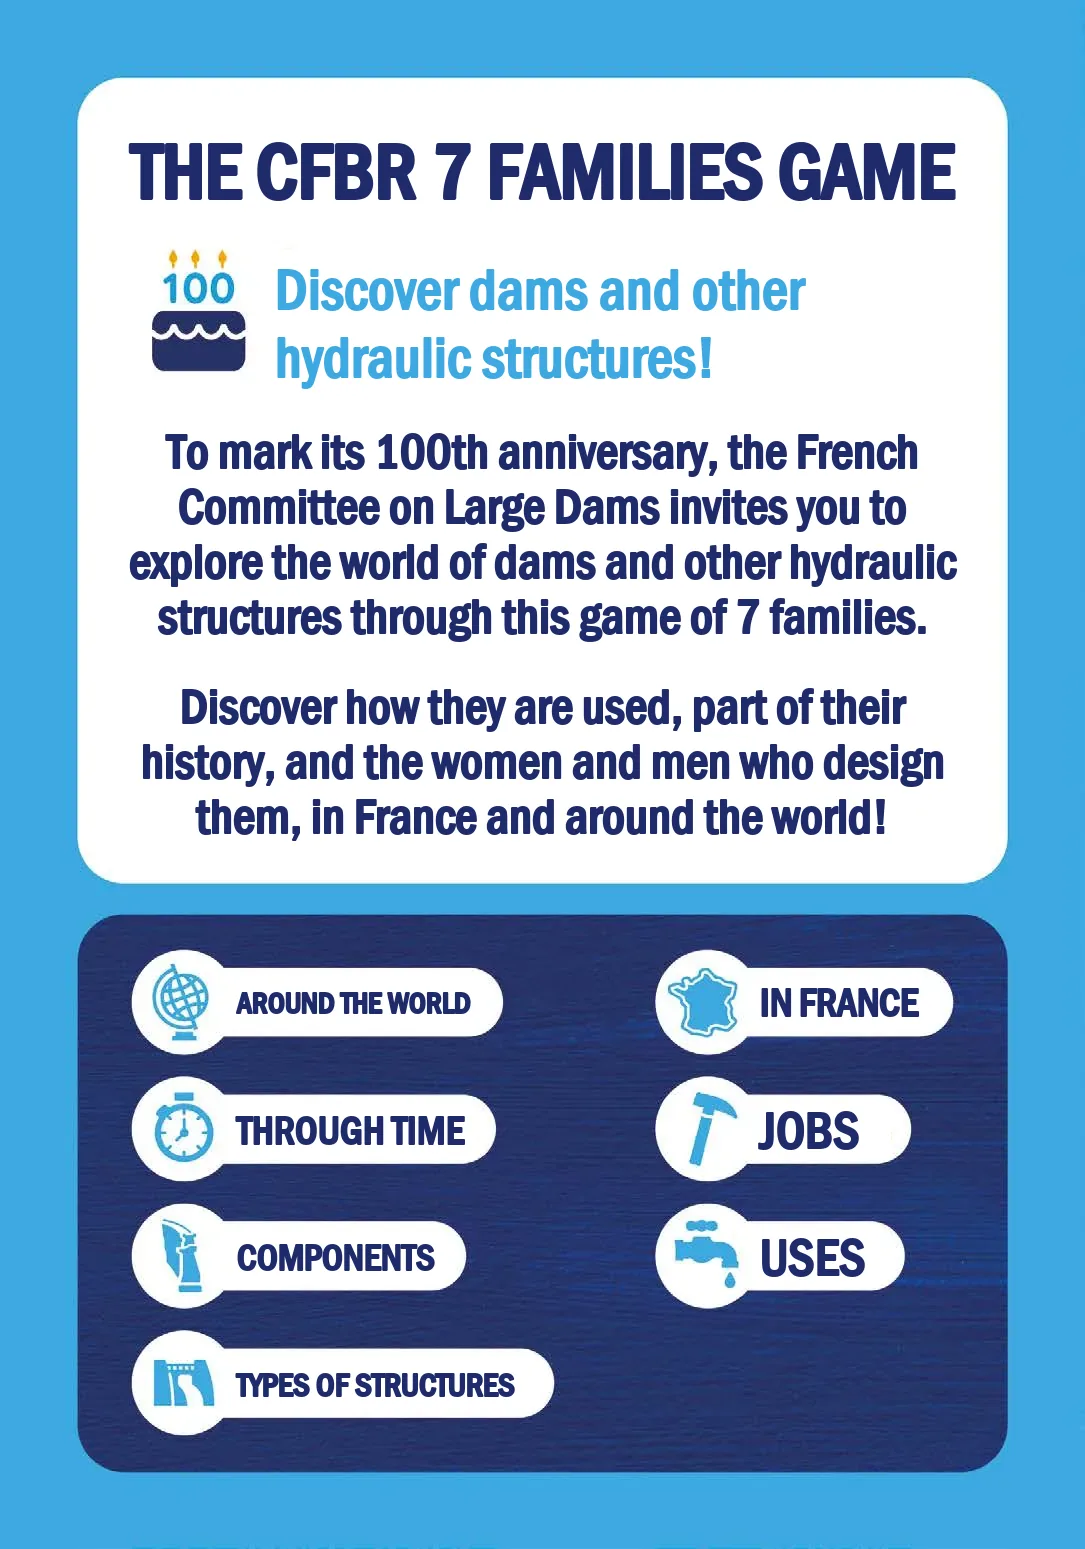
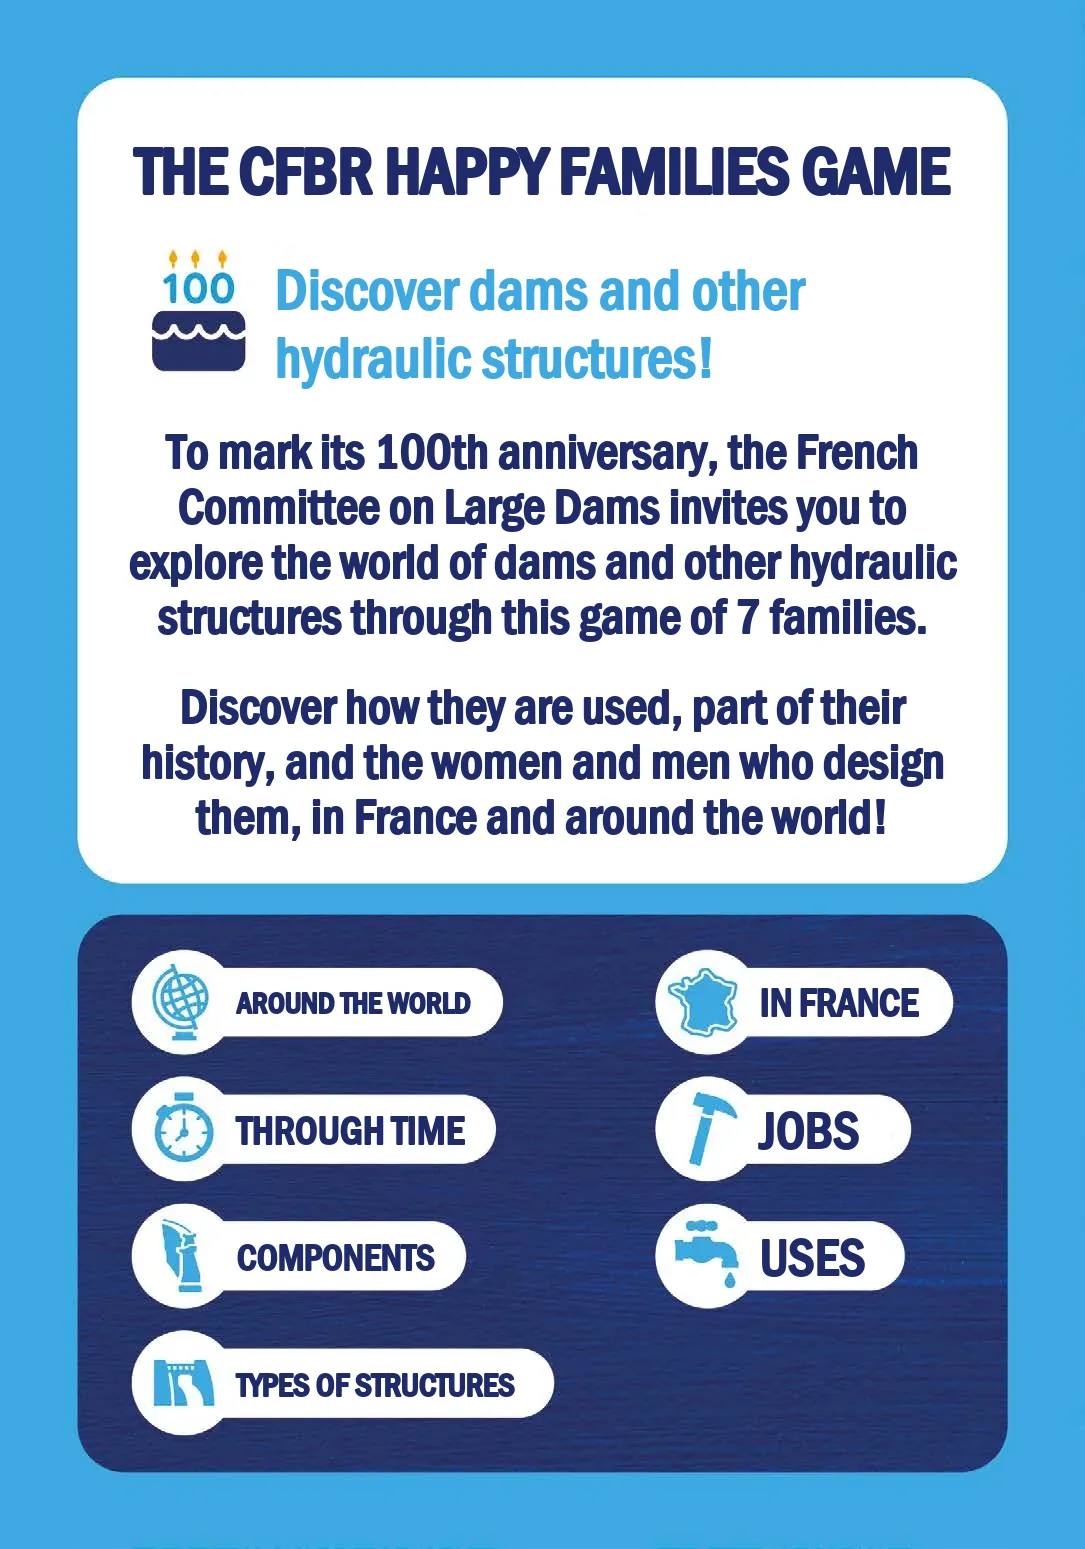
fix: English box title uses Happy Families instead of a literal 7 Families

Changed region(s): [[0.1217, 0.093, 0.882, 0.1549]]

diff --git a/scripts/make-box-en.py b/scripts/make-box-en.py
@@ -101,7 +101,7 @@ def make_front():
     erase_text_in_blob(arr, (560, 540), False, (45, 49, 113), roi=(520, 480, 1000, 700))
     erase_text_in_blob(arr, (400, 1345), True, WHITE, roi=(165, 1345, 440, 1455))
     img = Image.fromarray(arr).convert("RGB")
-    rotated_block(img, ["THE CFBR", "7 FAMILIES", "GAME"], (318, 312), 10, 88, NAVY, 90, 2)
+    rotated_block(img, ["THE CFBR", "HAPPY FAMILIES", "GAME"], (318, 312), 10, 68, NAVY, 82, 2)
     rotated_block(img, ["A GAME ABOUT THE", "WORLD OF DAMS & OTHER", "HYDRAULIC STRUCTURES"], (750, 570), -9, 40, WHITE, 52, 1)
     d = ImageDraw.Draw(img)
     put_lines(d, ["2 to 4 players", "15 to 20 min."], 0, 1375, 46, (31, 69, 123), 58, 1, align="left", x_left=172)
@@ -128,7 +128,7 @@ def make_back():
         d.rectangle((x0 - 6, y - 27, r, y + 27), fill=WHITE)
     # Textes
     f = font(100)
-    title = "THE CFBR 7 FAMILIES GAME"
+    title = "THE CFBR HAPPY FAMILIES GAME"
     size = fit_size(d, [title], 830, 100, 2)
     d.text((543, 170), title, font=font(size), fill=NAVY, anchor="mm", stroke_width=2, stroke_fill=NAVY)
     put_lines(d, ["Discover dams and other", "hydraulic structures!"], 0, 288, 58, BLUE, 68, 1, align="left", x_left=275)
